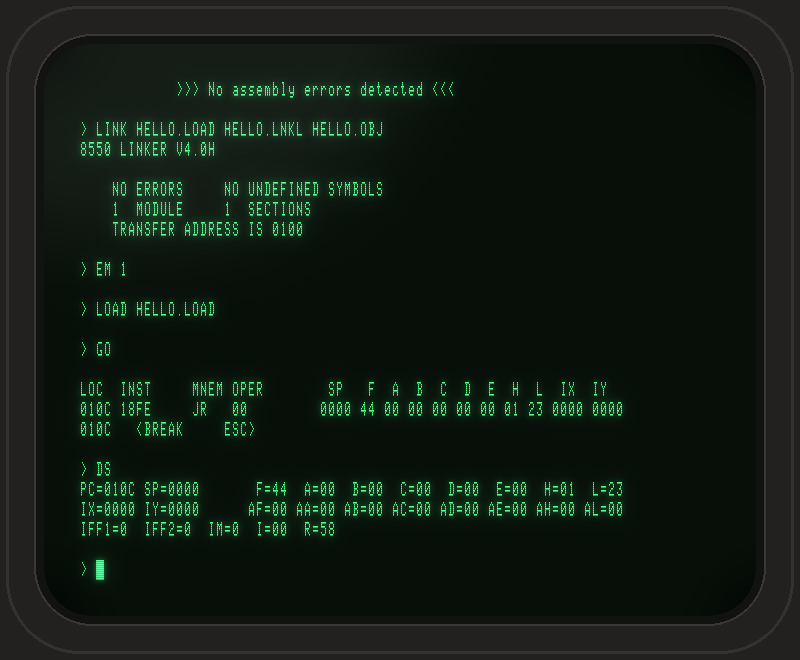
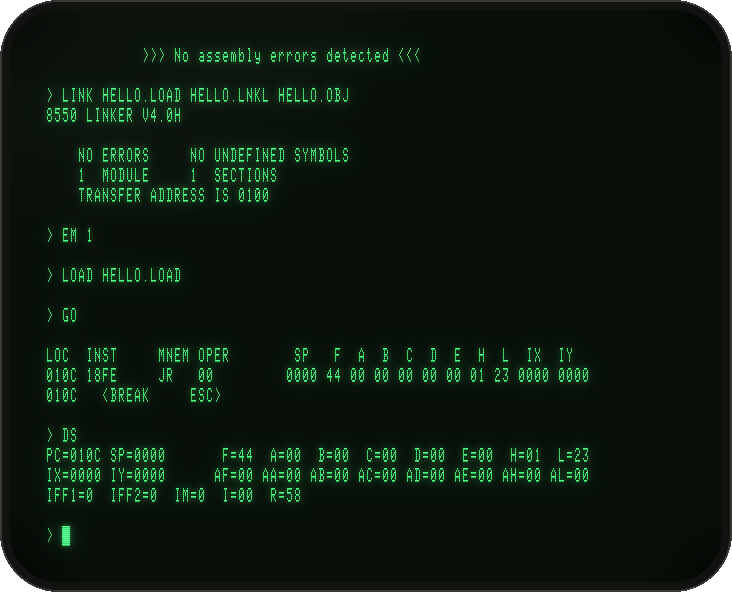
CRT screenshots: drop outer bezel, keep thin rounded lip; reflection reduced to a hint

diff --git a/tools/render_screens.py b/tools/render_screens.py
@@ -7,8 +7,8 @@
   Glyphs: tools/ct8500_font.py -- Tek 308 ROM upper case + matching hand-drawn lower case
   with descenders (approximation; the CT8500 character ROM is not dumped).
 --style modern: a TrueType monospace font in --cell WxH cells (default 10x20 -> 800x500).
---crt: present the raster on a CRT -- overscan border, phosphor glow, rounded tube face,
-  edge vignette and a bezel (the raster itself is not rescaled).
+--crt: present the raster on a CRT -- overscan border, phosphor glow, rounded tube face with
+  a thin lip, edge vignette, faint reflection (the raster itself is not rescaled).
 usage: render_screens.py [--style ct8500|modern] [--crt] [--cell WxH] [--font TTF] INPUT OUTPUT.png
 INPUT is a .scr snapshot ("CT8500 ..." header) or a plain text file (last 25 lines).
 """
@@ -69,7 +69,7 @@ def render_ct8500(cols, rows, text, attr, cursor, out):
     img.save(out)
     print(out, img.size)
 
-def crt_frame(img, overscan=36, bezel=44, radius=48):
+def crt_frame(img, overscan=36, radius=48):
     """Place a rendered raster on a CRT face inside a bezel."""
     W, H = img.size
     sw, sh = W + 2 * overscan, H + 2 * overscan                 # glass incl. overscan
@@ -93,20 +93,20 @@ def crt_frame(img, overscan=36, bezel=44, radius=48):
     glass = Image.composite(glass, Image.new('RGB', (sw, sh), (0, 0, 0)), vig)
     # faint glass reflection in the upper left
     refl = Image.new('L', (sw, sh), 0)
-    ImageDraw.Draw(refl).ellipse([-sw * 0.25, -sh * 0.6, sw * 0.55, sh * 0.35], fill=14)
+    ImageDraw.Draw(refl).ellipse([-sw * 0.25, -sh * 0.6, sw * 0.55, sh * 0.35], fill=4)   # just a hint
     refl = refl.filter(ImageFilter.GaussianBlur(40))
     glass = ImageChops.add(glass, Image.merge('RGB', (refl, refl, refl)))
     # rounded tube face mask
     mask = Image.new('L', (sw, sh), 0)
     ImageDraw.Draw(mask).rounded_rectangle([0, 0, sw - 1, sh - 1], radius=radius, fill=255)
-    # bezel: dark plastic with a lighter inner lip
-    fw, fh = sw + 2 * bezel, sh + 2 * bezel
-    frame = Image.new('RGB', (fw, fh), (34, 33, 31))
+    # rounded lip around the glass only (no outer bezel); transparent outside
+    lip = 10
+    fw, fh = sw + 2 * lip, sh + 2 * lip
+    frame = Image.new('RGBA', (fw, fh), (0, 0, 0, 0))
     fd = ImageDraw.Draw(frame)
-    fd.rounded_rectangle([6, 6, fw - 7, fh - 7], radius=radius + 26, outline=(52, 50, 47), width=3)
-    fd.rounded_rectangle([bezel - 10, bezel - 10, bezel + sw + 9, bezel + sh + 9], radius=radius + 10, fill=(18, 18, 17))
-    fd.rounded_rectangle([bezel - 10, bezel - 10, bezel + sw + 9, bezel + sh + 9], radius=radius + 10, outline=(58, 56, 52), width=2)
-    frame.paste(glass, (bezel, bezel), mask)
+    fd.rounded_rectangle([0, 0, fw - 1, fh - 1], radius=radius + lip, fill=(18, 18, 17, 255))
+    fd.rounded_rectangle([0, 0, fw - 1, fh - 1], radius=radius + lip, outline=(58, 56, 52, 255), width=2)
+    frame.paste(glass, (lip, lip), mask)
     return frame
 
 def main():

diff --git a/docs/screenshots/README.md b/docs/screenshots/README.md
@@ -8,7 +8,7 @@ below). Upper case, digits and punctuation come from a genuine Tektronix charact
 308 data analyzer's 160-0797-00 (TekWiki dump, CRC fd426d5f). Lower case was drawn to match, with descenders in the
 matrix's 8th row (the CT8500 uses 6×8 versus the 4023/CT8100's 5×7).
 
-![charset](charset.png) Shown here on a simulated CRT face: overscan, phosphor glow, rounded tube, vignette and bezel. The raster itself is unscaled, and the bare rasters are in `raw/`. Regenerate with `tools/make_screenshots.sh`
+![charset](charset.png) Shown here on a simulated CRT face: overscan, phosphor glow, rounded tube with a thin lip, vignette. The raster itself is unscaled, and the bare rasters are in `raw/`. Regenerate with `tools/make_screenshots.sh`
 (`tools/render_screens.py --style modern` gives the plain TrueType variant).
 
 1. ![boot](01_boot.png) Power-on: 8301 boot ROM, 8501 file server, **DOS/50 V1.0** prompt.
